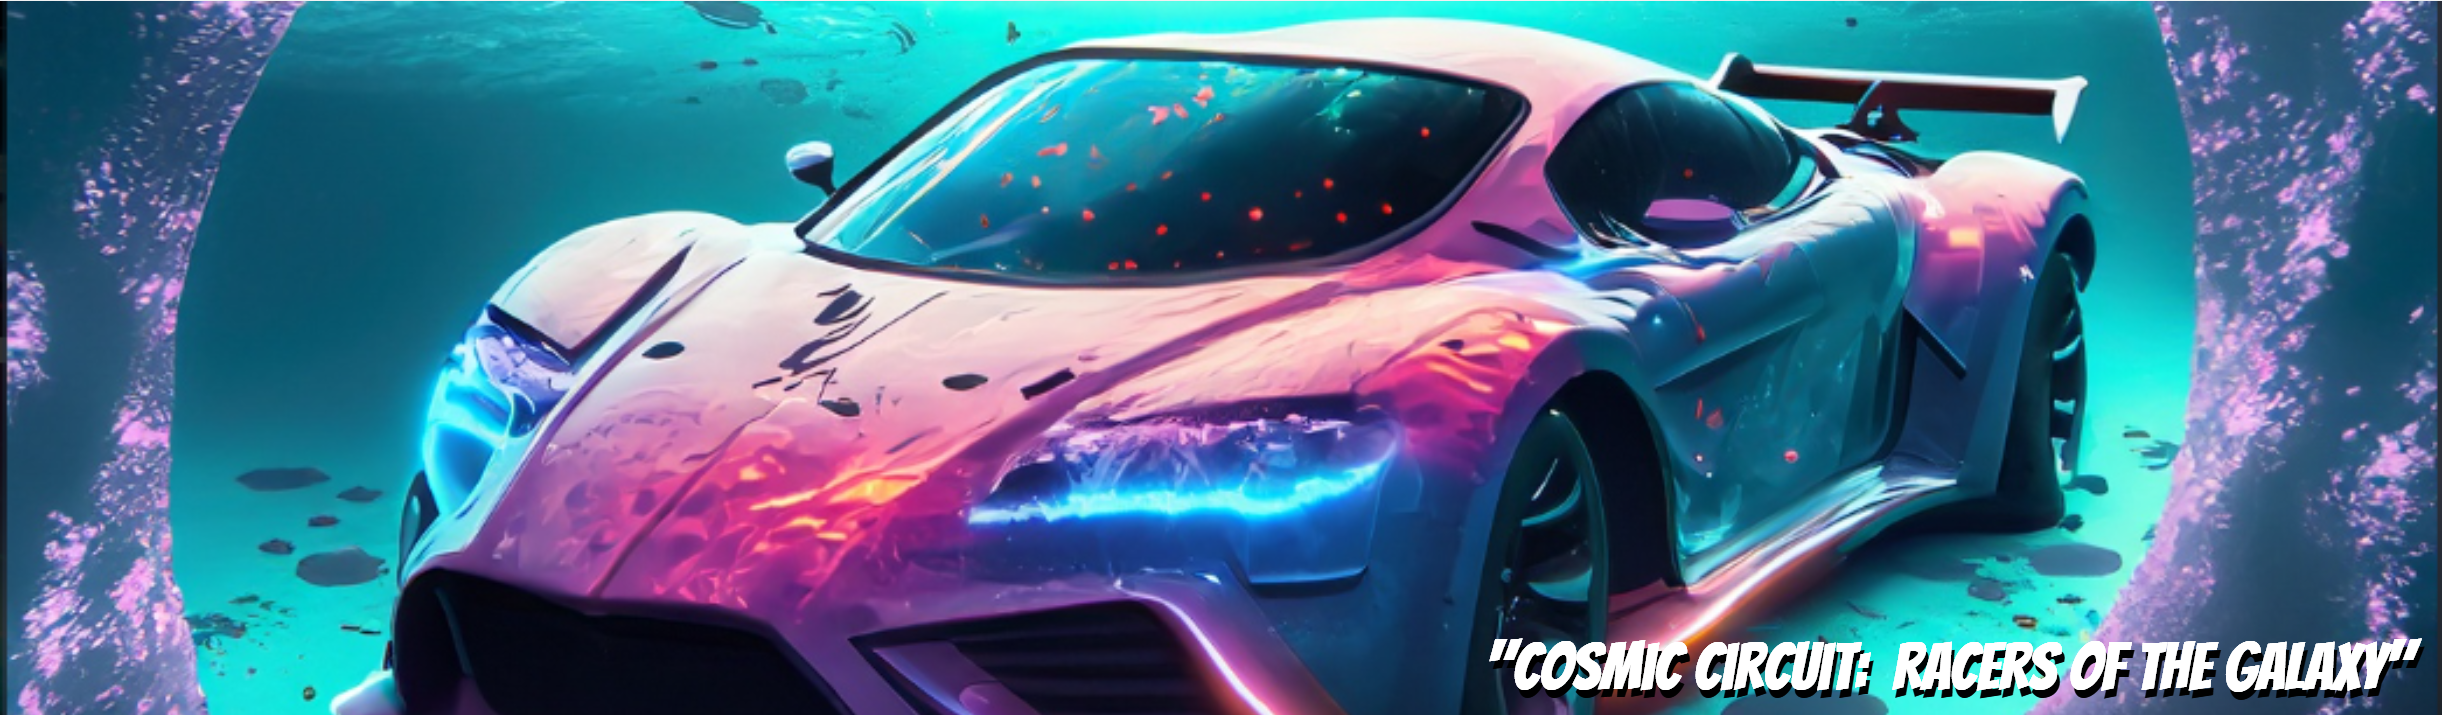
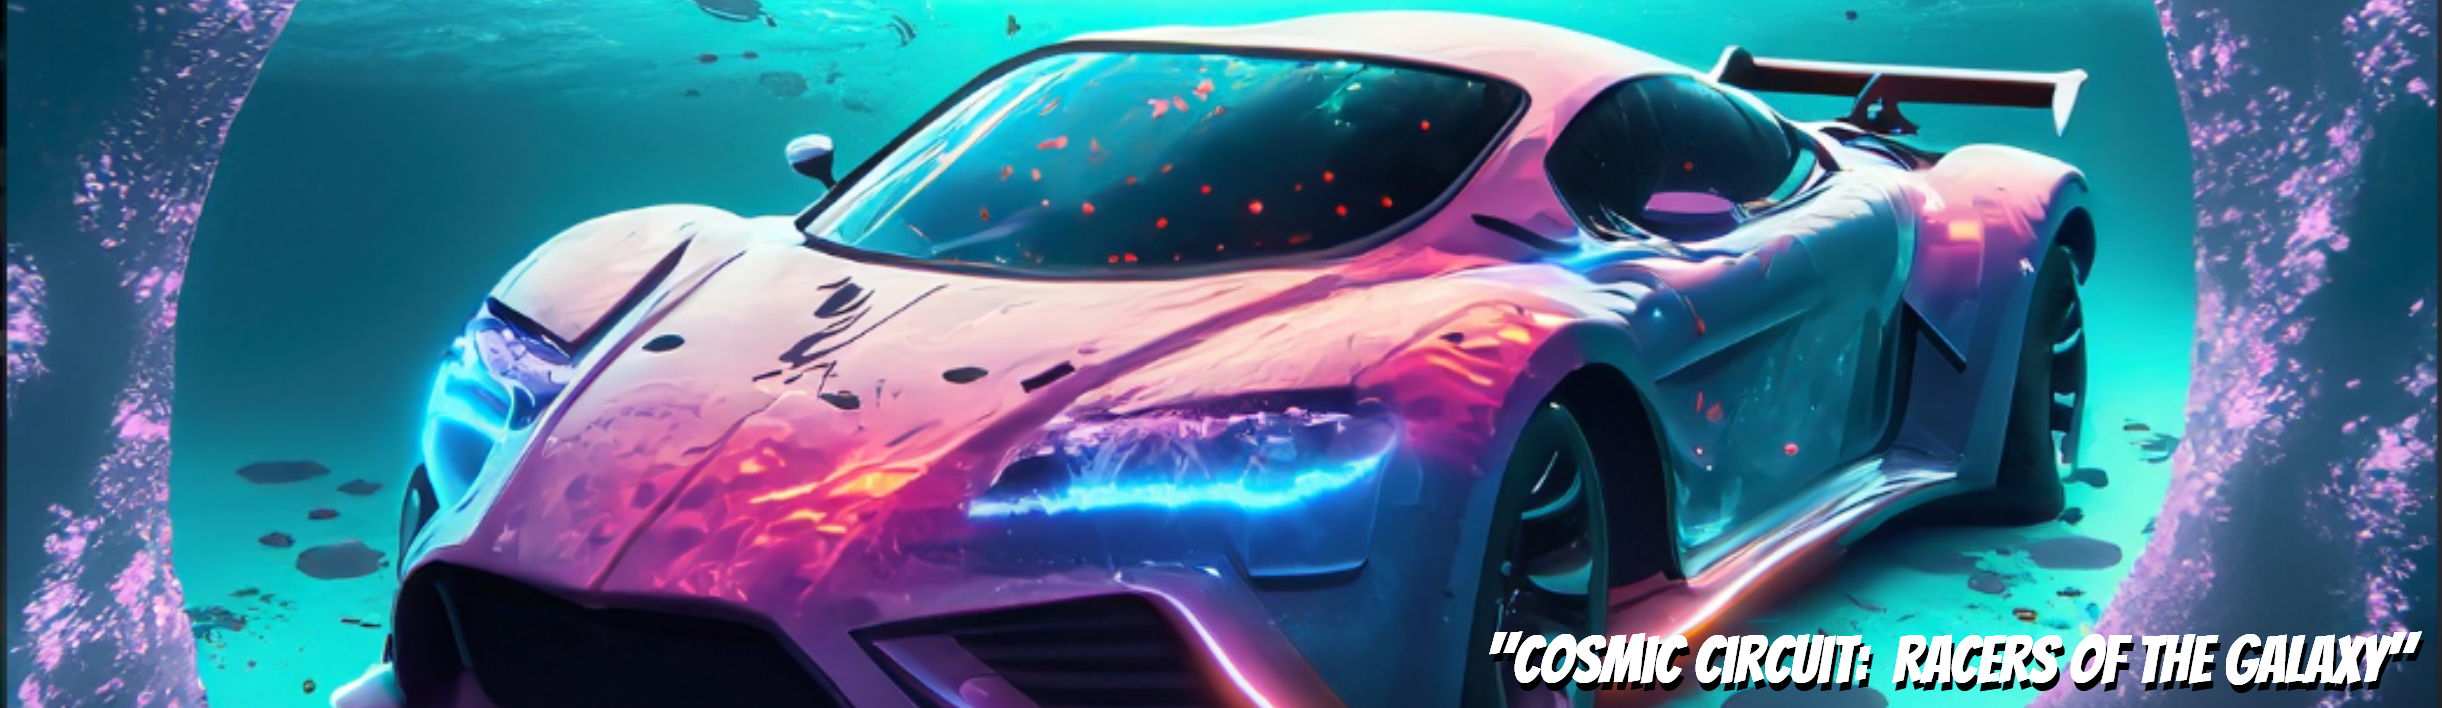
Img Slider Aesthetics Improved. Viewvers component improved.

diff --git a/src/components/Header.js b/src/components/Header.js
@@ -14,59 +14,59 @@ import { setSignOutState } from "../features/movie/UserReducers";
 
 
 const Header = (props) => {
-  const dispatch = useDispatch();
-  const history = useHistory();
-  const userName = useSelector(selectUserName);
-  const userPhoto = useSelector(selectUserPhoto);
+//   const dispatch = useDispatch();
+//   const history = useHistory();
+//   const userName = useSelector(selectUserName);
+//   const userPhoto = useSelector(selectUserPhoto);
 
-  useEffect(() => {
-    auth.onAuthStateChanged(async (user) => {
-      if (user) {
-        setUser(user);
-        history.push("/home");
-      }
-    });
-  }, [userName]);
+//   useEffect(() => {
+//     auth.onAuthStateChanged(async (user) => {
+//       if (user) {
+//         setUser(user);
+//         history.push("/home");
+//       }
+//     });
+//   }, [userName]);
 
-  const handleAuth = () => {
-    if (!userName) {
-      auth
-        .signInWithPopup(provider)
-        .then((result) => {
-          setUser(result.user);
-        })
-        .catch((error) => {
-          alert(error.message);
-        });
-    } else if (userName) {
-      auth
-        .signOut()
-        .then(() => {
-          dispatch(setSignOutState());
-          history.push("/");
-        })
-        .catch((err) => alert(err.message));
-    }
-  };
+//   const handleAuth = () => {
+//     if (!userName) {
+//       auth
+//         .signInWithPopup(provider)
+//         .then((result) => {
+//           setUser(result.user);
+//         })
+//         .catch((error) => {
+//           alert(error.message);
+//         });
+//     } else if (userName) {
+//       auth
+//         .signOut()
+//         .then(() => {
+//           dispatch(setSignOutState());
+//           history.push("/");
+//         })
+//         .catch((err) => alert(err.message));
+//     }
+//   };
 
-  const setUser = (user) => {
-    dispatch(
-      setUserLoginDetails({
-        name: user.displayName,
-        email: user.email,
-        photo: user.photoURL,
-      })
-    );
-  };
+//   const setUser = (user) => {
+//     dispatch(
+//       setUserLoginDetails({
+//         name: user.displayName,
+//         email: user.email,
+//         photo: user.photoURL,
+//       })
+//     );
+//   };
 
   return (
+
+
     <Nav>
       <Logo >
-        <img src={logo} height= "50px"  width= "100px" alt="Ai~Flix" />
+        asdjhaskd        <img src={logo} height= "50px"  width= "100px" alt="Ai~Flix" />
       </Logo>
 
-
-        <>
           <NavMenu>
             <a href="/home">
               <img src='https://drive.google.com/uc?id=1i-N5_YQwBPv1eSRm-EPQElJyzhCmecm8' alt="HOME" />
@@ -99,7 +99,6 @@ const Header = (props) => {
               <span onClick={handleAuth}>Sign out</span>
             </DropDown>
           </SignOut>
-        </>
       
       
     </Nav>

diff --git a/src/components/MyHeader.js b/src/components/MyHeader.js
@@ -1,0 +1,49 @@
+import React from 'react';
+import logo from '../assets/logo.png';
+import '../Styling/MyHeader.css'; // Create a CSS file for styling
+
+function MyHeader() {
+  return (
+    <header className="header-container">
+      <div className="logo-container">
+        <img src={logo} alt="Logo" className="logo" />
+      </div>
+      <nav className="nav-menu">
+        <ul>
+          <li>
+            <a href="#">Home</a>
+            <span className="icon">🏠</span>
+          </li>
+          <li>
+            <a href="#">Search</a>
+            <span className="icon">🔍</span>
+          </li>
+          <li>
+            <a href="#">Watchlist</a>
+            <span className="icon">📺</span>
+          </li>
+          <li>
+            <a href="#">Originals</a>
+            <span className="icon">🎬</span>
+          </li>
+          <li>
+            <a href="#">Movies</a>
+            <span className="icon">🍿</span>
+          </li>
+          <li>
+            <a href="#">Series</a>
+            <span className="icon">📺</span>
+          </li>
+        </ul>
+      </nav>
+      <div className="sign-out-container">
+        <button className="sign-out-button">
+          Sign Out
+          <span className="icon">🚪</span>
+        </button>
+      </div>
+    </header>
+  );
+}
+
+export default MyHeader;

diff --git a/src/Styling/MyHeader.css b/src/Styling/MyHeader.css
@@ -1,0 +1,75 @@
+/* MyHeader.css */
+
+.header-container {
+  display: flex;
+  justify-content: flex-start;
+  align-items: center;
+  justify-content: center;
+  background-color: #000000;
+  padding: 10px 20px;
+  box-shadow: 0px 2px 4px rgba(0, 0, 0, 0.1);
+  color: white;
+font-family: 'Courier New', Courier, monospace;
+}
+
+.logo-container {
+  display: flex;
+  align-items: center;
+}
+
+.logo {
+  width: 250px;
+  height: 110px;
+  margin-right: 50px;
+}
+
+.nav-menu ul {
+  list-style: none;
+  display: flex;
+  margin: 0;
+  padding: 0;
+}
+
+.nav-menu li {
+  margin: 0 15px;
+  position: relative;
+  font-weight: bold;
+  font-size: 18px;
+}
+
+.nav-menu a {
+  text-decoration: none;
+  color: white;
+  transition: color 0.3s ease-in-out;
+}
+
+.nav-menu a:hover {
+  color: #ff9900;
+}
+
+.icon {
+  margin-left: 5px;
+  font-size: 20px;
+}
+
+.sign-out-container {
+  display: flex;
+  flex: content;
+  justify-content: end;
+font-family: 'Courier New', Courier, monospace;
+}
+
+.sign-out-button {
+    font-family: 'Courier New', Courier, monospace;
+  background-color: transparent;
+  border: none;
+  color: white;
+  font-weight: bold;
+  cursor: pointer;
+font-size: 18px;
+  transition: color 0.3s ease-in-out;
+}
+
+.sign-out-button:hover {
+  color: #ff9900;
+}

diff --git a/src/components/Movies.js b/src/components/Movies.js
@@ -6,6 +6,7 @@ import { getFirestore, collection, getDocs, onSnapshot, updateDoc, doc } from "f
 import { getDatabase, ref, onValue, set } from "firebase/database";
 import Card from "../reddit_Components/Card";
 
+
 function Movies() {
   const firebaseConfig = {
     apiKey: "AIzaSyAKA7_6wjny6zUBkEPEkrP0QD_hpkFf15c",
@@ -92,8 +93,8 @@ return (
         .slice()
         .sort((a, b) => b.score - a.score)
         .map((doc, index) => (
-          <div key={doc.id}> 
-            <Card asdasd
+          <div key={doc.id} className="cardstyling"> 
+            <Card 
               title={doc.title}
               videoUrl={doc.videoUrl}
               desc={doc.desc}
@@ -112,9 +113,12 @@ export default Movies;
 
 const Container = styled.div`
   padding: 0 0 26px;
+
+
 `;
 
 const Content = styled.div`
+
   display: grid;
   grid-gap: 25px;
   gap: 25px;
@@ -124,7 +128,9 @@ const Content = styled.div`
   }
 `;
 
+
 const CardContainer = styled.div`
+  
   display: grid;
   grid-gap: 25px;
 

diff --git a/src/components/ImgSlider.js b/src/components/ImgSlider.js
@@ -57,7 +57,7 @@ export default ImgSlider
 
 const Carousel = styled(Slider)`
     cursor: pointer;
-    margin-top: 20px;
+    margin-bottom: 10px;
 
 
     ul li button {
@@ -81,9 +81,12 @@ const Carousel = styled(Slider)`
 const Warp = styled.div`
     img{
         border: 4px solid transparent;
-        border-radius: 4px;
+        border-radius: 5px;
+        
+        justify-content: center;
+        align-items: center;
         width: 100%;
-        height: 100%;
+        height: 650px;
         box-shadow: rgba(0 0 0 /69%) 0px 26px 30px -10px,
         rgb(0 0 0 / 73%) 0px 16px 10px -10px;
         transition-duration: 300ms;

diff --git a/src/components/Viewers.js b/src/components/Viewers.js
@@ -36,8 +36,7 @@ const Viewers = (props) => {
 };
 
 const Container = styled.div`
-  margin-top: 30px;
-  padding: 30px 0px 26px;
+  padding: 100px;
   display: grid;
   grid-gap: 25px;
   gap: 45px;
@@ -50,7 +49,7 @@ const Container = styled.div`
 
 const Wrap = styled.div`
   padding-top: 56.25%;
-  border-radius: 10px;
+  border-radius: 5px;
   box-shadow: rgb(0 0 0 / 69%) 0px 26px 30px -10px,
     rgb(0 0 0 / 73%) 0px 16px 10px -10px;
   cursor: pointer;
@@ -61,6 +60,7 @@ const Wrap = styled.div`
 
   img {
     inset: 0px;
+    padding:10px;
     display: block;
     height: 100%;
     object-fit: cover;

diff --git a/src/components/StreamExclusive.js b/src/components/StreamExclusive.js
@@ -23,7 +23,7 @@ const Stream_Exclusive = () => {
       <Section>
         <Container>
           <Tittle style={{ marginBottom: '100px' }}>
-          <img src={coverImg}  height= '200px' width= '990px' alt='grid/img' />
+          <img src={coverImg}  height= '160px' width= '990px' alt='grid/img' />
             {/* <h2 className='disney-tittles'>Ai-Flix</h2> */}
         {/* ?    <p>An Flawless Creation of Webseries & Movies by Artificial intelligence <br/> & <br/> there collection only on Ai-Flix.</p> */}
           </Tittle>

diff --git a/src/components/Home.js b/src/components/Home.js
@@ -11,11 +11,13 @@ import Stream_Exclusive from "./StreamExclusive";
 import Advertisement from "./Advertisement";
 import Devices from "./Devices";
 import Header from "./Header";
+import MyHeader from "./MyHeader";
 
 const Home = () => {
 
   return (
-
+    <div>
+    <MyHeader/>
     <Container>
       <ImgSlider />
       <Viewers />
@@ -25,6 +27,7 @@ const Home = () => {
       <Advertisement />
       <Devices />
     </Container>
+    </div>
   );
 };
 

diff --git a/src/components/CardStyling.css b/src/components/CardStyling.css
@@ -1,0 +1,4 @@
+.cardstyling{
+    width:60%;
+    height:50%;
+}
